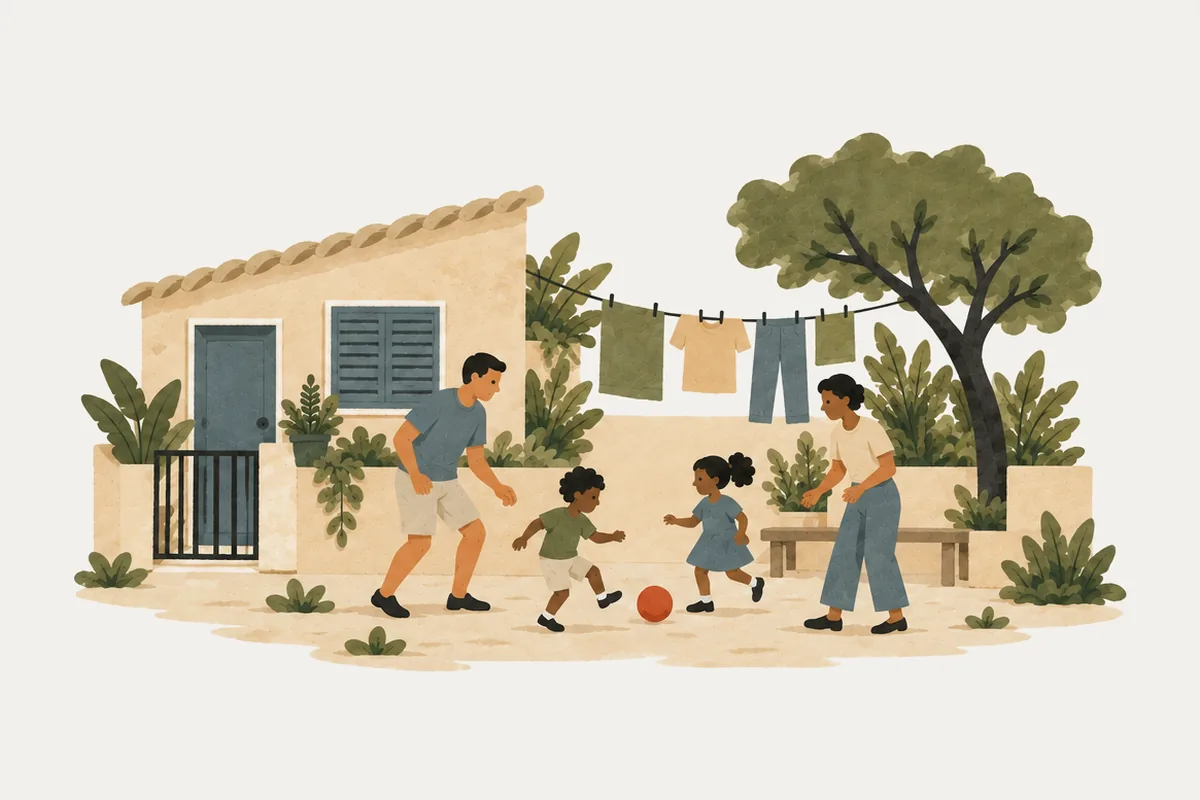
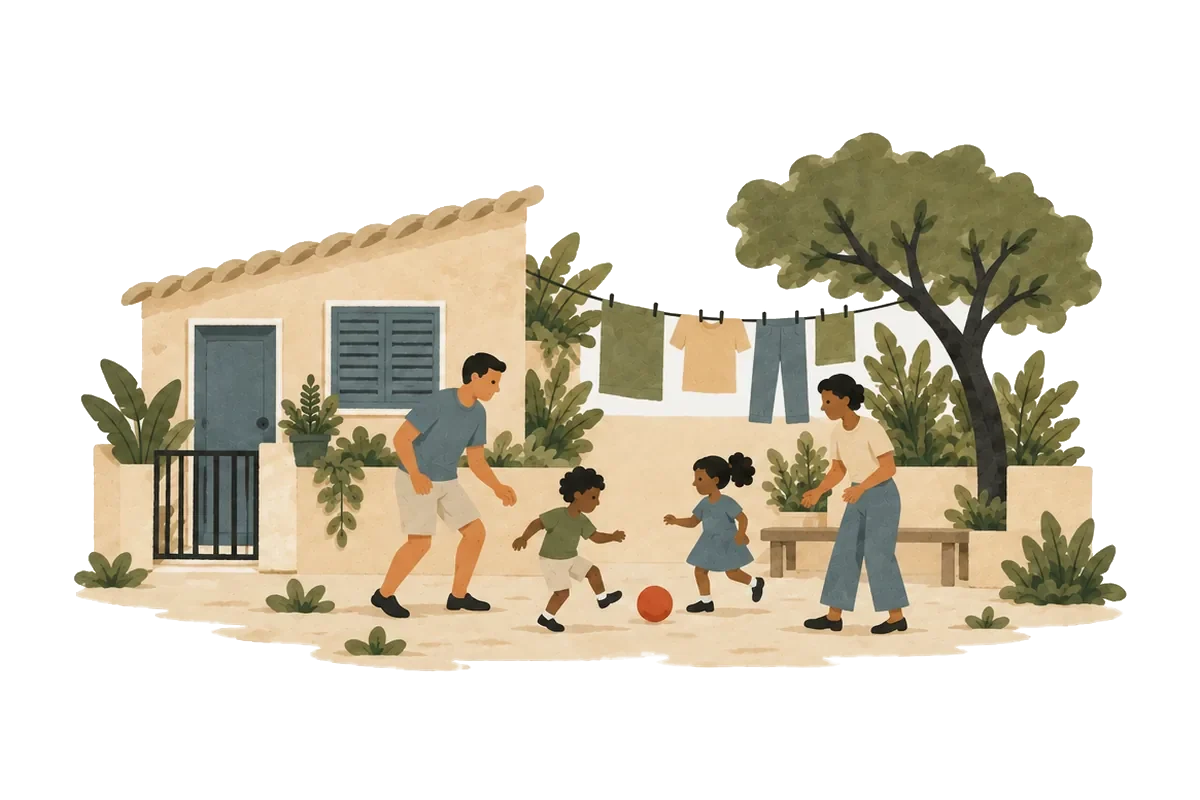
feat(app): paleta fria e ilustrações transparentes (fase 1)
Julgamento às cegas do Astra entre três candidatas (a atual, uma neutra e
uma fria) contra o Nextdoor: venceu a fria, com dois ajustes no escuro.

- Fundo cinza-claro frio e cartão branco; no escuro, fundo quase preto frio
  e borda mais marcada.
- Ação de concluir em ardósia (--acao); Brasa só no começar a criar
  (--pc-criar, o botão flutuante).
- As 19 ilustrações ganham fundo transparente: acaba a placa clara no escuro.
- theme-color e o teste de tema acompanham a paleta nova.
- ADR-20261102-paleta-fria e as regras de cor e imagem da identidade.

Provas: app 125/125, typecheck e build verdes, tema.spec 30/30 nos seis
tamanhos, percursos do F01 e de Grupos em 375/768/1440 claro e escuro sem
erro, transbordo ou segunda ação principal.

diff --git a/apps/app/src/styles.css b/apps/app/src/styles.css
@@ -53,51 +53,54 @@
   color-scheme: light;
 
   /* papéis do shadcn */
-  --background: rgb(242 240 235);
-  --foreground: rgb(37 48 51);
+  --background: rgb(243 245 246);
+  --foreground: rgb(28 38 43);
   --card: rgb(255 255 255);
-  --card-foreground: rgb(37 48 51);
+  --card-foreground: rgb(28 38 43);
   --popover: rgb(255 255 255);
-  --popover-foreground: rgb(37 48 51);
-  --primary: rgb(37 48 51);
-  --primary-foreground: rgb(242 240 235);
-  --secondary: rgb(225 234 235);
-  --secondary-foreground: rgb(37 48 51);
-  --muted: rgb(238 235 229);
-  --muted-foreground: rgb(85 98 95);
-  --accent: rgb(232 229 222);
-  --accent-foreground: rgb(37 48 51);
+  --popover-foreground: rgb(28 38 43);
+  --primary: rgb(28 38 43);
+  --primary-foreground: rgb(243 245 246);
+  --secondary: rgb(225 233 236);
+  --secondary-foreground: rgb(28 38 43);
+  --muted: rgb(234 238 240);
+  --muted-foreground: rgb(82 94 100);
+  --accent: rgb(229 234 236);
+  --accent-foreground: rgb(28 38 43);
   --destructive: rgb(186 26 26);
   --destructive-foreground: rgb(255 255 255);
-  --border: rgb(216 212 204);
-  --input: rgb(216 212 204);
-  --ring: rgb(37 48 51);
+  --border: rgb(222 227 230);
+  --input: rgb(208 214 218);
+  --ring: rgb(28 38 43);
   --success: rgb(74 106 110);
   --success-foreground: rgb(255 255 255);
+  /* Ação de concluir (Publicar, Continuar): ardósia. A Brasa marca só "começar a criar". */
+  --acao: rgb(38 66 79);
+  --acao-foreground: rgb(255 255 255);
   --brasa: rgb(184 74 58);
   --brasa-foreground: rgb(255 255 255);
   --accent-text: rgb(158 59 44);
 
   /* a pele do protótipo, valor por valor */
-  --surface: rgb(242 240 235);
+  --surface: rgb(243 245 246);
   --surface-lowest: rgb(255 255 255);
-  --surface-low: rgb(247 245 241);
-  --surface-container: rgb(238 235 229);
-  --surface-high: rgb(232 229 222);
-  --surface-highest: rgb(225 221 213);
-  --on-surface: rgb(37 48 51);
-  --on-surface-variant: rgb(85 98 95);
-  --outline: rgb(120 128 125);
-  --outline-variant: rgb(216 212 204);
-  --primary-container: rgb(221 226 227);
-  --on-primary-container: rgb(37 48 51);
+  --surface-low: rgb(238 241 243);
+  --surface-container: rgb(234 238 240);
+  --surface-high: rgb(228 233 236);
+  --surface-highest: rgb(221 227 230);
+  --on-surface: rgb(28 38 43);
+  --on-surface-variant: rgb(82 94 100);
+  --outline: rgb(116 128 134);
+  --outline-variant: rgb(222 227 230);
+  --primary-container: rgb(221 229 233);
+  --on-primary-container: rgb(28 38 43);
   --secondary-container: rgb(225 234 235);
-  --on-secondary-container: rgb(37 48 51);
+  --on-secondary-container: rgb(28 38 43);
   --tertiary: rgb(158 59 44);
   --tertiary-container: rgb(243 221 215);
   --on-tertiary-container: rgb(122 44 32);
-  --inverse-surface: rgb(37 48 51);
-  --inverse-on-surface: rgb(242 240 235);
+  --inverse-surface: rgb(28 38 43);
+  --inverse-on-surface: rgb(243 245 246);
   --scrim: rgb(0 0 0 / 0.32);
   --shadow-soft: rgb(0 0 0 / 0.16);
   --shadow-strong: rgb(0 0 0 / 0.3);
@@ -124,50 +127,52 @@
   :root {
     color-scheme: dark;
 
-    --background: rgb(23 30 32);
-    --foreground: rgb(236 234 228);
-    --card: rgb(32 41 43);
-    --card-foreground: rgb(236 234 228);
-    --popover: rgb(32 41 43);
-    --popover-foreground: rgb(236 234 228);
-    --primary: rgb(236 234 228);
-    --primary-foreground: rgb(23 30 32);
-    --secondary: rgb(38 58 61);
-    --secondary-foreground: rgb(236 234 228);
-    --muted: rgb(35 45 47);
-    --muted-foreground: rgb(169 184 186);
-    --accent: rgb(42 53 55);
-    --accent-foreground: rgb(236 234 228);
+    --background: rgb(16 20 23);
+    --foreground: rgb(232 236 238);
+    --card: rgb(26 32 36);
+    --card-foreground: rgb(232 236 238);
+    --popover: rgb(26 32 36);
+    --popover-foreground: rgb(232 236 238);
+    --primary: rgb(232 236 238);
+    --primary-foreground: rgb(16 20 23);
+    --secondary: rgb(36 50 57);
+    --secondary-foreground: rgb(232 236 238);
+    --muted: rgb(32 39 44);
+    --muted-foreground: rgb(156 170 178);
+    --accent: rgb(38 46 51);
+    --accent-foreground: rgb(232 236 238);
     --destructive: rgb(255 180 171);
     --destructive-foreground: rgb(105 0 5);
-    --border: rgb(51 64 63);
-    --input: rgb(51 64 63);
-    --ring: rgb(236 234 228);
+    --border: rgb(48 58 62);
+    --input: rgb(56 66 72);
+    --ring: rgb(232 236 238);
     --success: rgb(159 188 192);
     --success-foreground: rgb(23 30 32);
+    --acao: rgb(165 191 200);
+    --acao-foreground: rgb(23 40 47);
     --brasa: rgb(224 122 90);
     --brasa-foreground: rgb(23 30 32);
     --accent-text: rgb(224 122 90);
 
-    --surface: rgb(23 30 32);
-    --surface-lowest: rgb(32 41 43);
-    --surface-low: rgb(28 36 38);
-    --surface-container: rgb(35 45 47);
-    --surface-high: rgb(42 53 55);
-    --surface-highest: rgb(49 61 63);
-    --on-surface: rgb(236 234 228);
-    --on-surface-variant: rgb(169 184 186);
-    --outline: rgb(125 140 142);
-    --outline-variant: rgb(51 64 63);
-    --primary-container: rgb(44 59 62);
-    --on-primary-container: rgb(236 234 228);
+    --surface: rgb(16 20 23);
+    --surface-lowest: rgb(26 32 36);
+    --surface-low: rgb(21 26 30);
+    --surface-container: rgb(32 39 44);
+    --surface-high: rgb(38 46 51);
+    --surface-highest: rgb(46 55 60);
+    --on-surface: rgb(232 236 238);
+    --on-surface-variant: rgb(156 170 178);
+    --outline: rgb(122 138 146);
+    --outline-variant: rgb(48 58 62);
+    --primary-container: rgb(38 52 59);
+    --on-primary-container: rgb(232 236 238);
     --secondary-container: rgb(38 58 61);
-    --on-secondary-container: rgb(236 234 228);
+    --on-secondary-container: rgb(232 236 238);
     --tertiary: rgb(240 160 138);
     --tertiary-container: rgb(62 42 38);
     --on-tertiary-container: rgb(240 160 138);
-    --inverse-surface: rgb(236 234 228);
-    --inverse-on-surface: rgb(37 48 51);
+    --inverse-surface: rgb(232 236 238);
+    --inverse-on-surface: rgb(28 38 43);
     --scrim: rgb(0 0 0 / 0.52);
     --shadow-soft: rgb(0 0 0 / 0.45);
     --shadow-strong: rgb(0 0 0 / 0.55);
@@ -199,6 +204,8 @@
   --color-input: var(--input);
   --color-ring: var(--ring);
   --color-success: var(--success);
+  --color-acao: var(--acao);
+  --color-acao-foreground: var(--acao-foreground);
   --color-brasa: var(--brasa);
   --color-brasa-foreground: var(--brasa-foreground);
   --color-accent-text: var(--accent-text);

diff --git a/apps/app/src/pecas/pecas.css b/apps/app/src/pecas/pecas.css
@@ -19,11 +19,12 @@
   --pc-cartao: var(--card);
   --pc-tom: color-mix(in srgb, var(--foreground) 7%, transparent);
   --pc-tom-forte: color-mix(in srgb, var(--foreground) 13%, transparent);
-  --pc-acao: var(--brasa);
-  --pc-acao-texto: var(--brasa-foreground);
+  --pc-acao: var(--acao);
+  --pc-acao-texto: var(--acao-foreground);
+  --pc-criar: var(--brasa);
+  --pc-criar-texto: var(--brasa-foreground);
   --pc-feito: var(--success);
   --pc-perigo: var(--destructive);
-  --pc-papel: #f2f0eb;
 
   --pc-fs-destaque: 30px;
   --pc-fs-titulo: 24px;
@@ -307,8 +308,11 @@
   font-size: 24px;
 }
 
-/* O botão que fica sobre o conteúdo, no canto, sempre à mão. */
+/* O botão que fica sobre o conteúdo, no canto, sempre à mão. É o "começar a criar":
+   a única peça em Brasa. */
 .pc-flutuante {
+  --pc-acao: var(--pc-criar);
+  --pc-acao-texto: var(--pc-criar-texto);
   position: fixed;
   right: 16px;
   bottom: calc(24px + env(safe-area-inset-bottom));
@@ -487,17 +491,16 @@
   height: var(--pc-selo, 48px);
   overflow: hidden;
   border-radius: calc(var(--pc-selo, 48px) * 0.25);
-  background: var(--pc-papel);
+  background: var(--pc-tom);
 }
 
 /* ── ilustração ────────────────────────────────────────────────────────── */
-/* A família é desenhada sobre Papel: no escuro ela vira um quadro de Papel,
-   nunca um retângulo claro sangrando até a borda. */
+/* A família tem fundo transparente: pousa em qualquer fundo, claro ou escuro,
+   sem quadro. */
 .pc-ilustracao {
   display: block;
   overflow: hidden;
   border-radius: var(--pc-raio-cartao);
-  background: var(--pc-papel);
 }
 
 .pc-ilustracao img {
@@ -733,7 +736,7 @@
   display: grid;
   place-items: center;
   aspect-ratio: 4 / 3;
-  background: var(--pc-papel);
+  background: var(--pc-tom);
 }
 
 .pc-escolha-arte img {

diff --git a/apps/app/tests/e2e/tema.spec.ts b/apps/app/tests/e2e/tema.spec.ts
@@ -4,12 +4,12 @@
  * O tema: os tokens do protótipo, claro e escuro seguindo o sistema, inclusive
  * quando a pessoa troca o tema com o app aberto (ADR §2).
  *
- * As cores medidas são as do `apps/prototipo/app/globals.css`, que é a tradução
- * aprovada dos tokens do protótipo de HTML.
+ * As cores medidas são as da paleta da fase 1 (ADR-20261102-paleta-fria), que
+ * substituiu a tradução dos tokens do protótipo de HTML.
  */
 
-const CLARO = { fundo: "242, 240, 235", tinta: "37, 48, 51", barra: "#F2F0EB" }
-const ESCURO = { fundo: "23, 30, 32", tinta: "236, 234, 228", barra: "#171E20" }
+const CLARO = { fundo: "243, 245, 246", tinta: "28, 38, 43", barra: "#F3F5F6" }
+const ESCURO = { fundo: "16, 20, 23", tinta: "232, 236, 238", barra: "#101417" }
 
 /**
  * A cor **resolvida** de um token, e não o texto bruto dele: o build minifica

diff --git a/apps/app/src/casca/tema.ts b/apps/app/src/casca/tema.ts
@@ -9,7 +9,7 @@ import { useEffect } from "react"
  * `<meta name="theme-color">`, e é isso que este gancho acompanha — inclusive
  * quando a pessoa troca o tema com o app aberto.
  */
-export const COR_DA_BARRA = { claro: "#F2F0EB", escuro: "#171E20" } as const
+export const COR_DA_BARRA = { claro: "#F3F5F6", escuro: "#101417" } as const
 
 export function useCorDaBarraDoSistema(): void {
   useEffect(() => {

diff --git a/apps/app/index.html b/apps/app/index.html
@@ -3,7 +3,7 @@
   <head>
     <meta charset="UTF-8" />
     <meta name="viewport" content="width=device-width, initial-scale=1.0" />
-    <meta name="theme-color" content="#F2F0EB" />
+    <meta name="theme-color" content="#F3F5F6" />
     <title>Bivaque</title>
   </head>
   <body>

diff --git a/docs/decisions/ADR-20261102-paleta-fria.md b/docs/decisions/ADR-20261102-paleta-fria.md
@@ -1,0 +1,68 @@
+---
+id: ADR-20261102-paleta-fria
+status: accepted
+risk: R1
+owner: Juan
+approved_at: 2026-11-02 (por delegação do dono; ele autorizou mudar a paleta em 02/11)
+expires_at:
+linked_plan: docs/LANCAMENTO.md (fase 1)
+critic_verdict: pass
+critic_review: .visual/PALETA/juiz-astra.md (GPT-6 Astra, julgamento às cegas entre três candidatas)
+---
+
+# A paleta do app passa a ser fria: fundo cinza-claro, ação em ardósia, Brasa só no "criar"
+
+## Problem
+
+O veredito de maturidade de 02/11 (do agente e do Astra, em separado) achou o app "em parte" maduro. A paleta
+somava ao problema: fundo creme (`#F2F0EB`), título em serifa e botão terracota (`#B84A3A`, e `#E07A5A` no escuro)
+são hoje a combinação mais comum em telas geradas por IA. Além disso, a Brasa estava em todo botão principal, o que
+deixava a cor da marca sem significado próprio.
+
+## Decision
+
+- **Fundo e superfícies frios.** Claro: fundo `#F3F5F6`, cartão branco, tinta `#1C262B`, apoio `#525E64`, linha
+  `#DEE3E6`. Escuro: fundo `#101417`, cartão `#1A2024`, tinta `#E8ECEE`, apoio `#9CAAB2`, linha `#303A3E`.
+- **Ação de concluir em ardósia** (`--acao`): Publicar, Continuar, Entrar. Claro `#26424F` com texto branco;
+  escuro `#A5BFC8` com texto `#17282F`.
+- **Brasa só em "começar a criar"** (`--pc-criar`): o botão flutuante de escrever e o Criar da barra. Ela vira a
+  assinatura da marca, não a cor de todo botão.
+- **Ilustrações com fundo transparente**, para pousarem em qualquer fundo; acaba a placa clara no escuro. Selos e
+  escolhas ilustradas ganham fundo de tom (`--pc-tom`).
+- Tipografia, raios e o resto da identidade das peças continuam.
+
+## Alternatives considered
+
+1. **A atual** (Papel, Grafite, Brasa no principal) — mantém a marca, mas é o padrão creme + terracota.
+2. **Neutra** (fundo quase branco, principal em Grafite, Brasa só no criar) — segunda colocada, muito próxima.
+3. **Fria** (esta) — vencedora no julgamento às cegas, pela continuidade da ação entre os temas e por se afastar
+   do padrão.
+
+## Market or reference baseline
+
+Nextdoor (Mobbin, telas citadas no veredito de 02/11): fundo cinza-claro, cartões brancos, botões principais em
+azul-marinho escuro e o verde da marca reservado ao botão de publicar. A decisão segue o mesmo princípio sem copiar
+as cores.
+
+## Proposed divergence from baseline
+
+A cor da marca (Brasa) continua presente, no ato de criar; o Nextdoor faz o mesmo com o verde.
+
+## Risks
+
+- O `apps/web` (landing e telas antigas) ainda usa a paleta anterior até a troca de cada jornada; a landing é
+  ajustada na fase 1.
+- As telas antigas do `apps/app` que não usam as peças ainda pintam botões com Brasa até migrarem (fase 1).
+
+## Reversal cost
+
+Baixo: os valores vivem nos tokens de `apps/app/src/styles.css` e em `pecas.css`.
+
+## Success metric
+
+Revisão às cegas do Astra contra o Nextdoor no fim da fase 1 sem "abaixo da régua" em interface; teste de tema
+(`tests/e2e/tema.spec.ts`) verde nos seis tamanhos.
+
+## Reopen condition
+
+O dono rebater no marco 1, ou um teste de contraste reprovar a combinação.

diff --git a/docs/agents/regua-nextdoor/IDENTIDADE-DAS-PECAS.md b/docs/agents/regua-nextdoor/IDENTIDADE-DAS-PECAS.md
@@ -19,10 +19,12 @@ selo, ilustração, nota, aviso ou folha. O CSS da tela cuida só da disposiçã
 biblioteca e na galeria antes de entrar na tela.
 
 **Cor.**
-- Brasa aparece uma vez por tela, no botão principal.
-- Seleção (chip marcado, aba, "Entrou", Útil ligado) é Grafite.
+- Paleta fria (ADR-20261102-paleta-fria): fundo cinza-claro, cartão branco; no escuro, fundo quase preto frio.
+- A ação de concluir (Publicar, Continuar, Entrar) é ardósia (`--acao`), uma vez por tela.
+- Brasa só no "começar a criar": o botão flutuante de escrever e o Criar da barra (`--pc-criar`).
+- Seleção (chip marcado, aba, "Entrou", Útil ligado) é a tinta.
 - Link é tinta sublinhada.
-- O ardósia (`--success`) marca só o que já está feito: vínculo confirmado, pergunta resolvida.
+- A cor de feito (`--success`) marca só o que já está feito: vínculo confirmado, pergunta resolvida.
 - Nenhuma cor serve para enfeitar rótulo: o tipo da publicação, o motivo da sugestão e "novas publicações" são
   texto, sem cor.
 
@@ -52,8 +54,8 @@ biblioteca e na galeria antes de entrar na tela.
 - Selos (um objeto por tema) substituem o monograma dos grupos e ilustram escolhas pequenas (o momento na
   cidade). Em miniatura, selo; cena só onde tem espaço para ser lida.
 - Foto só quando é de um membro: foto da publicação, foto de perfil, capa enviada pela moderação.
-- O fundo de toda ilustração é exatamente o Papel (`#F2F0EB`). No claro ela pousa na página sem moldura; no escuro
-  vira um quadro de Papel com raio.
+- Toda ilustração tem fundo transparente e pousa em qualquer fundo, claro ou escuro, sem moldura. Selo e
+  escolha ilustrada ficam num quadrado de tom (`--pc-tom`).
 
 **Composição das peças.**
 - No feed, cada publicação é um cartão branco sobre o Papel.
@@ -66,7 +68,7 @@ biblioteca e na galeria antes de entrar na tela.
 - Código em casas: um campo só por baixo, para colar e para o preenchimento automático do celular.
 - Escolha com selo: rádios nativos, com o check no canto da arte.
 - Envio de arquivo: a área inteira abre o seletor e mostra o que foi escolhido.
-- Compositor de comentário: o campo em pílula e o envio em Brasa.
+- Compositor de comentário: o campo em pílula e o envio na cor de ação.
 
 **Toque e retorno.**
 - Botão, chip e linha encolhem 3% ao toque.
